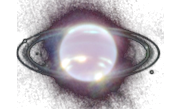
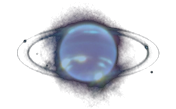
Webb Neptune toned to icy blue (was blowing out over the nebula skies); credits for the JWST skies, drop Milky Way

diff --git a/tools/import_openverse.py b/tools/import_openverse.py
@@ -205,12 +205,12 @@ def do_img():
     cx, cy, half = (x0 + x1) // 2, (y0 + y1) // 2, int((x1 - x0) * .62)
     ring = panel.crop((cx - half, cy - int(half * .62), cx + half, cy + int(half * .62)))
     ring = ImageOps.autocontrast(ring, cutoff=.5).resize((176, 109), Image.LANCZOS)
+    # Webb's infrared disc is near-white; pull it down to an icy blue-grey so it sits behind the nebula skies
+    a = np.asarray(ring, np.float32) / 255
+    a = (a ** 1.6) * np.array([.62, .74, .86])
+    ring = Image.fromarray((np.clip(a, 0, 1) * 255).astype(np.uint8))
     save(lum_alpha(ring, 10, 60), 'neptune-webb.png')
-    # Milky Way centre (Descent 2+ backdrop): a 960x254 band through the core
-    m = img('ov-dust-and-gas-in-the-milky-way-center')
-    w, h = m.size
-    band = m.crop((0, int(h * .5) - int(w * 254 / 960 / 2), w, int(h * .5) + int(w * 254 / 960 / 2)))
-    save(band.resize((960, 254), Image.LANCZOS), 'milkyway.png')
+    # (the Milky Way core backdrop was replaced by RODA JWST skies: tools/roda_sky.py)
     # Perseus cluster "x-ray skull" (behind the Gravity Drive): a 200 px ghost, alpha from brightness
     p = img('ov-the-perseus-cluster-s-x-ray-skull').resize((200, 195), Image.LANCZOS)
     save(lum_alpha(p, 30, 200), 'perseus-skull.png')

diff --git a/CREDITS.md b/CREDITS.md
@@ -86,13 +86,22 @@ trimmed, faded and level-matched (files `src/sfx/<bank>/ov-*.ogg`); music is sil
 | X-ray skull | erix! | CC BY 2.0 | https://www.flickr.com/photos/68387408@N00/267167699 | `xray-skull.png` Infirmary lightbox |
 | The Perseus Cluster's X-Ray Skull | NASA Universe | CC BY 2.0 | https://www.flickr.com/photos/50306086@N07/5127020922 | `perseus-skull.png` behind the Gravity Drive |
 | Dental X-ray | icethim | CC BY 2.0 | https://www.flickr.com/photos/15977536@N06/5443947055 | `xray-teeth.png` Infirmary lightbox |
-| Dust and Gas in the Milky Way Center | geckzilla | CC BY 2.0 | https://www.flickr.com/photos/54209675@N00/30386605114 | `milkyway.png` Open Orbit sky, Descent 2+ |
 
 ### JWST deep field (`src/img/deepfield.png`)
 JADES GOODS-S NIRCam mosaics v2.0 (F444W/F200W/F090W as R/G/B), the JWST Advanced Deep Extragalactic Survey,
 NASA/ESA/CSA/STScI, via MAST HLSP (https://archive.stsci.edu/hlsp/jades), CC BY 4.0. Found through the Registry of
 Open Data on AWS (`mast-jades`); a 2400x636 px cutout read with S3 range requests by `tools/jades_backdrop.py`,
 asinh-stretched and downsampled. Open Orbit sky, Descent 1.
+
+### JWST nebula skies (`src/img/sky-*.png`, built by `tools/roda_sky.py`)
+From RODA dataset `mast-jwst` (MAST public JWST products, bucket `stpubdata`): public domain ("Attribution required
+for refereed scientific papers"). Credit: NASA, ESA, CSA, STScI. Cutouts read with S3 range requests and colour-graded.
+
+| Image | Program / files | Used as |
+|---|---|---|
+| Cosmic Cliffs, NGC 3324 (NIRCam F444W/F335M/F187N) | ERO 2731, `jwst/public/jw02731/L3/t/o001/` | `sky-carina.png` Open Orbit sky, Descent 2 + title backdrop |
+| Tarantula Nebula, 30 Doradus (NIRCam F444W/F335M/F187N) | ERO 2729, `jwst/public/jw02729/L3/t/o001/` | `sky-tarantula.png` Open Orbit sky, Descent 3 |
+| Cassiopeia A (MIRI F2550W/F1800W/F1130W) | program 1947, `jwst/public/jw01947/L3/t/o001/` | `sky-casa.png` breathing "wound" layer in Open Orbit |
 
 ## Fonts
 Silkscreen and Grenze Gotisch via @fontsource (SIL Open Font License 1.1).
